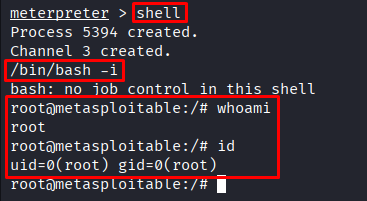
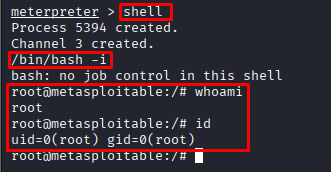
update

Changed region(s): [[0.0, 0.0, 0.8761, 0.9593]]

diff --git a/Metasploitable/vsftpd-2.3.4-backdoor/README.md b/Metasploitable/vsftpd-2.3.4-backdoor/README.md
@@ -28,7 +28,7 @@
 
 Metasploitable is an intentionally vulnerable version of Linux virtual machine used for penetration testing practice. The vulnerability that I aimed to exploit in this lab is known as "vsftpd 2.3.4 Backdoor". It is a well-known vulnerability whereby the malicious backdoor was planted into vsftpd source code back in 2011. If anyone logs into the FTP service using :) in his/her username, the backdoor triggers, giving the root shell access on port 6200.
 
-## Why This Attack Is Effective
+## Why This Attack Works
 
 In 2011, there was a backdoor introduced in the vsftpd 2.3.4 source code. It was very basic; if the username contained :) when trying to log in using FTP, then vsftpd would create a bind shell on TCP port 6200 in root. Anyone that knew how could immediately have root-level access to the computer without having any valid credentials.
 The Metasploitable installation comes with this vulnerable version of vsftpd.
